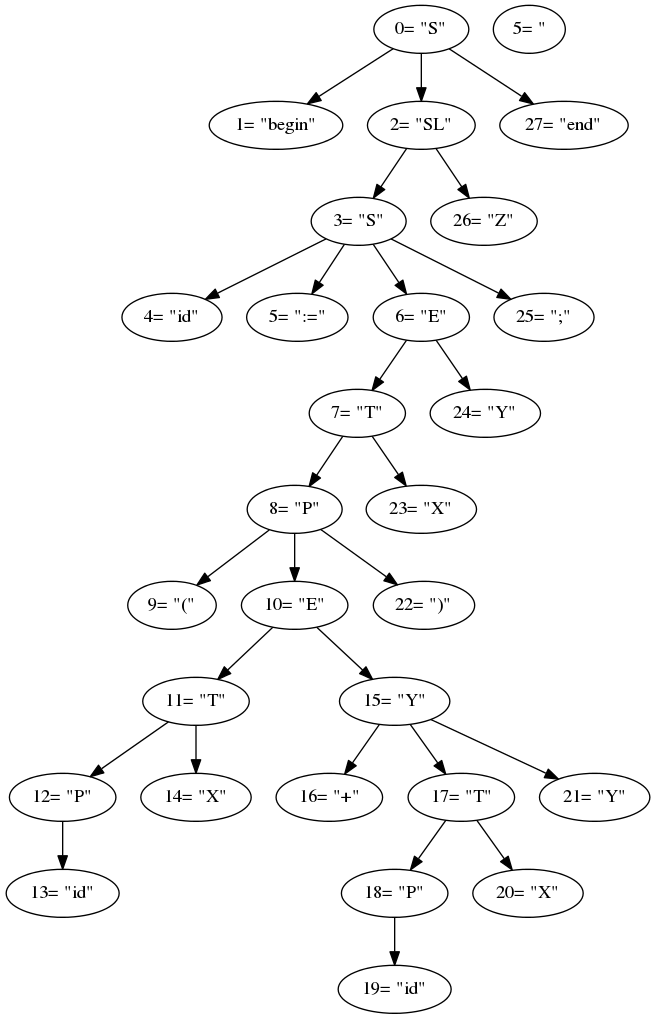
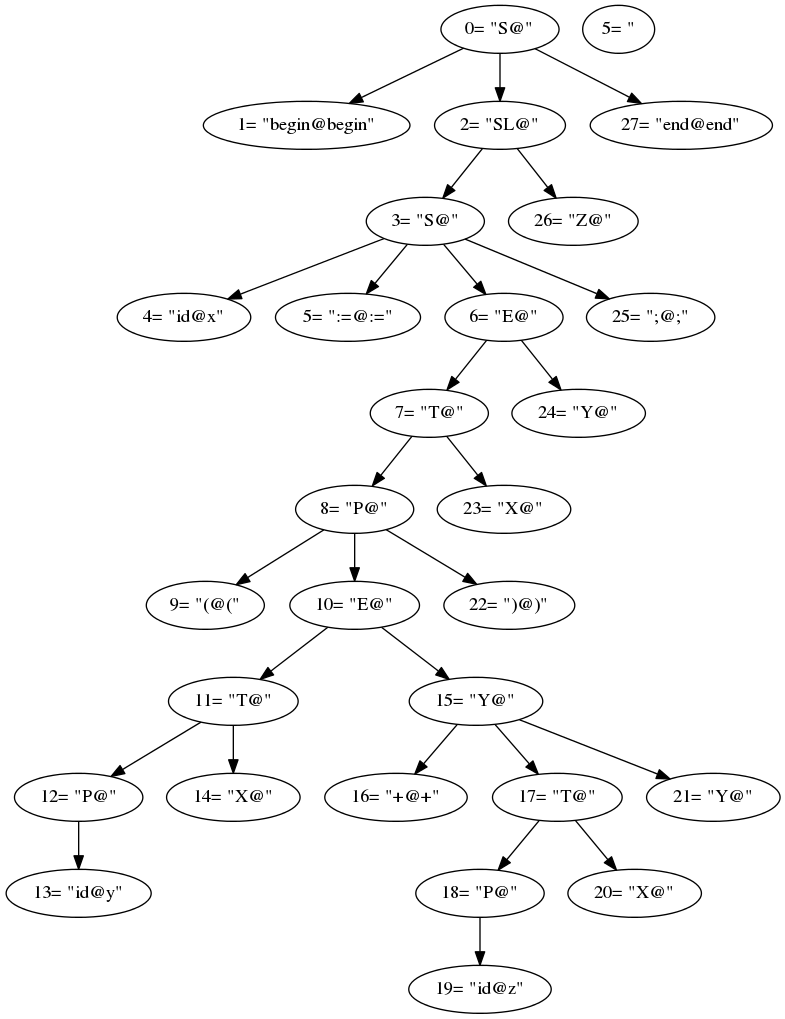
added additional functionaliy for parser. Parser now takes a list of pairs of token's symbol and the scanned string. This allows for a token the list combine list of tokens like [name, a, b, c] to [(name, 'abc')].

diff --git a/parser.py b/parser.py
@@ -24,7 +24,8 @@ class Parser:
     def ll1_parse(self, token_list):
         '''
         :param rose_tree: a Rose_Tree of the current node we are parsing
-        :param token_list: a list of terminal tokens to parse into a tree structure
+        :param token_list: a list of pairs of terminal tokens and their
+                           associated values to parse into a tree structure
         :return: RoseTree, [tokens]: the RoseTree is the AST of the parse and the
                                      list of tokens are the unconsumed tokens
         '''
@@ -41,11 +42,11 @@ class Parser:
         current_symbol = self.parse_stack.pop()
 
         # one token look-ahead
-        token = token_list[0]
+        token, token_value = token_list[0]
 
         #if we have a matching symbol and token, we can consume the input
         if current_symbol in self.grammar.terminals:
-            leaf = Rose_Tree(current_symbol, token)
+            leaf = Rose_Tree(current_symbol, token_value)
             return leaf, token_list[1:]
 
         #else we have a non-terminal, we must continue with the rewrite
@@ -54,14 +55,14 @@ class Parser:
 
         # if empty production to follow, unexpected terminal found:
         if not production_to_follow:
-            raise ValueError("Unexpected terminal, " + str(token) + ", found.", str(self.parse_stack))
+            raise ValueError("Unexpected terminal, " + str(token) + " @ " + str(token_value)  + ", found.", str(self.parse_stack))
 
         # we can't handle this in LL1 style parsing
         if len(production_to_follow) > 1:
 
             raise ValueError("Too many possible parses for LL1, this is non-deterministic. "
                              "Please check your grammar. Current parse: " +
-                             str(self.parse_stack[::-1]) + " on terminal " + str(token))
+                             str(self.parse_stack[::-1]) + " on terminal " + str(token) + " @ " + str(token_value))
 
         # push all symbols onto the stack
         for symbol in production_to_follow[0][::-1]:
@@ -114,12 +115,12 @@ class Rose_Tree:
     def pydot_append(self, graph, node_id):
         #note: don't use ':' as a divider here, it causes
         #strange things to happen when drawing with the pydot tool
-        graph.add_node(pydot.Node(('%d= "%s"' % (node_id, self.symbol))))
+        graph.add_node(pydot.Node(('%d= "%s@%s"' % (node_id, self.symbol, self.value))))
 
         c_num = node_id + 1
         for c in self.children:
-            graph.add_edge(pydot.Edge('%d= "%s"' % (node_id, self.symbol), 
-                                      '%d= "%s"' % (c_num, c.symbol)))
+            graph.add_edge(pydot.Edge('%d= "%s@%s"' % (node_id, self.symbol, self.value), 
+                                      '%d= "%s@%s"' % (c_num, c.symbol, c.value)))
             _, c_num = c.pydot_append(graph, c_num)
 
         return graph, c_num
@@ -127,7 +128,16 @@ class Rose_Tree:
 if __name__ == '__main__':
     x = Grammar('./testdata/ll1_test.txt')
     parser = Parser(x)
-    root, _ = parser.ll1_parse(['begin', 'id', ':=', '(', 'id', '+', 'id', ')', ';', 'end'])
+    root, _ = parser.ll1_parse([('begin', 'begin'), 
+                                ('id', 'x'), 
+                                (':=', ':='),
+                                ('(', '('), 
+                                ('id', 'y'),
+                                ('+', '+'),
+                                ('id', 'z'),
+                                (')', ')'),
+                                (';', ';'),
+                                ('end', 'end')])
 
     graph = pydot.Dot('Parse Tree', graph_type='digraph')
     g, _ = root.pydot_append(graph, 0)

diff --git a/ast_to_llvm.py b/ast_to_llvm.py
@@ -1,0 +1,13 @@
+from parser import Parser
+from cfg import Grammar
+from llvm import *
+
+def ast_to_cst(ast):
+    pass
+
+def cst_to_llvm(cst):
+    pass
+
+if __name__ == '__main__':
+    g = Grammar('./testdata/html.txt')
+    x = Parser(g)
